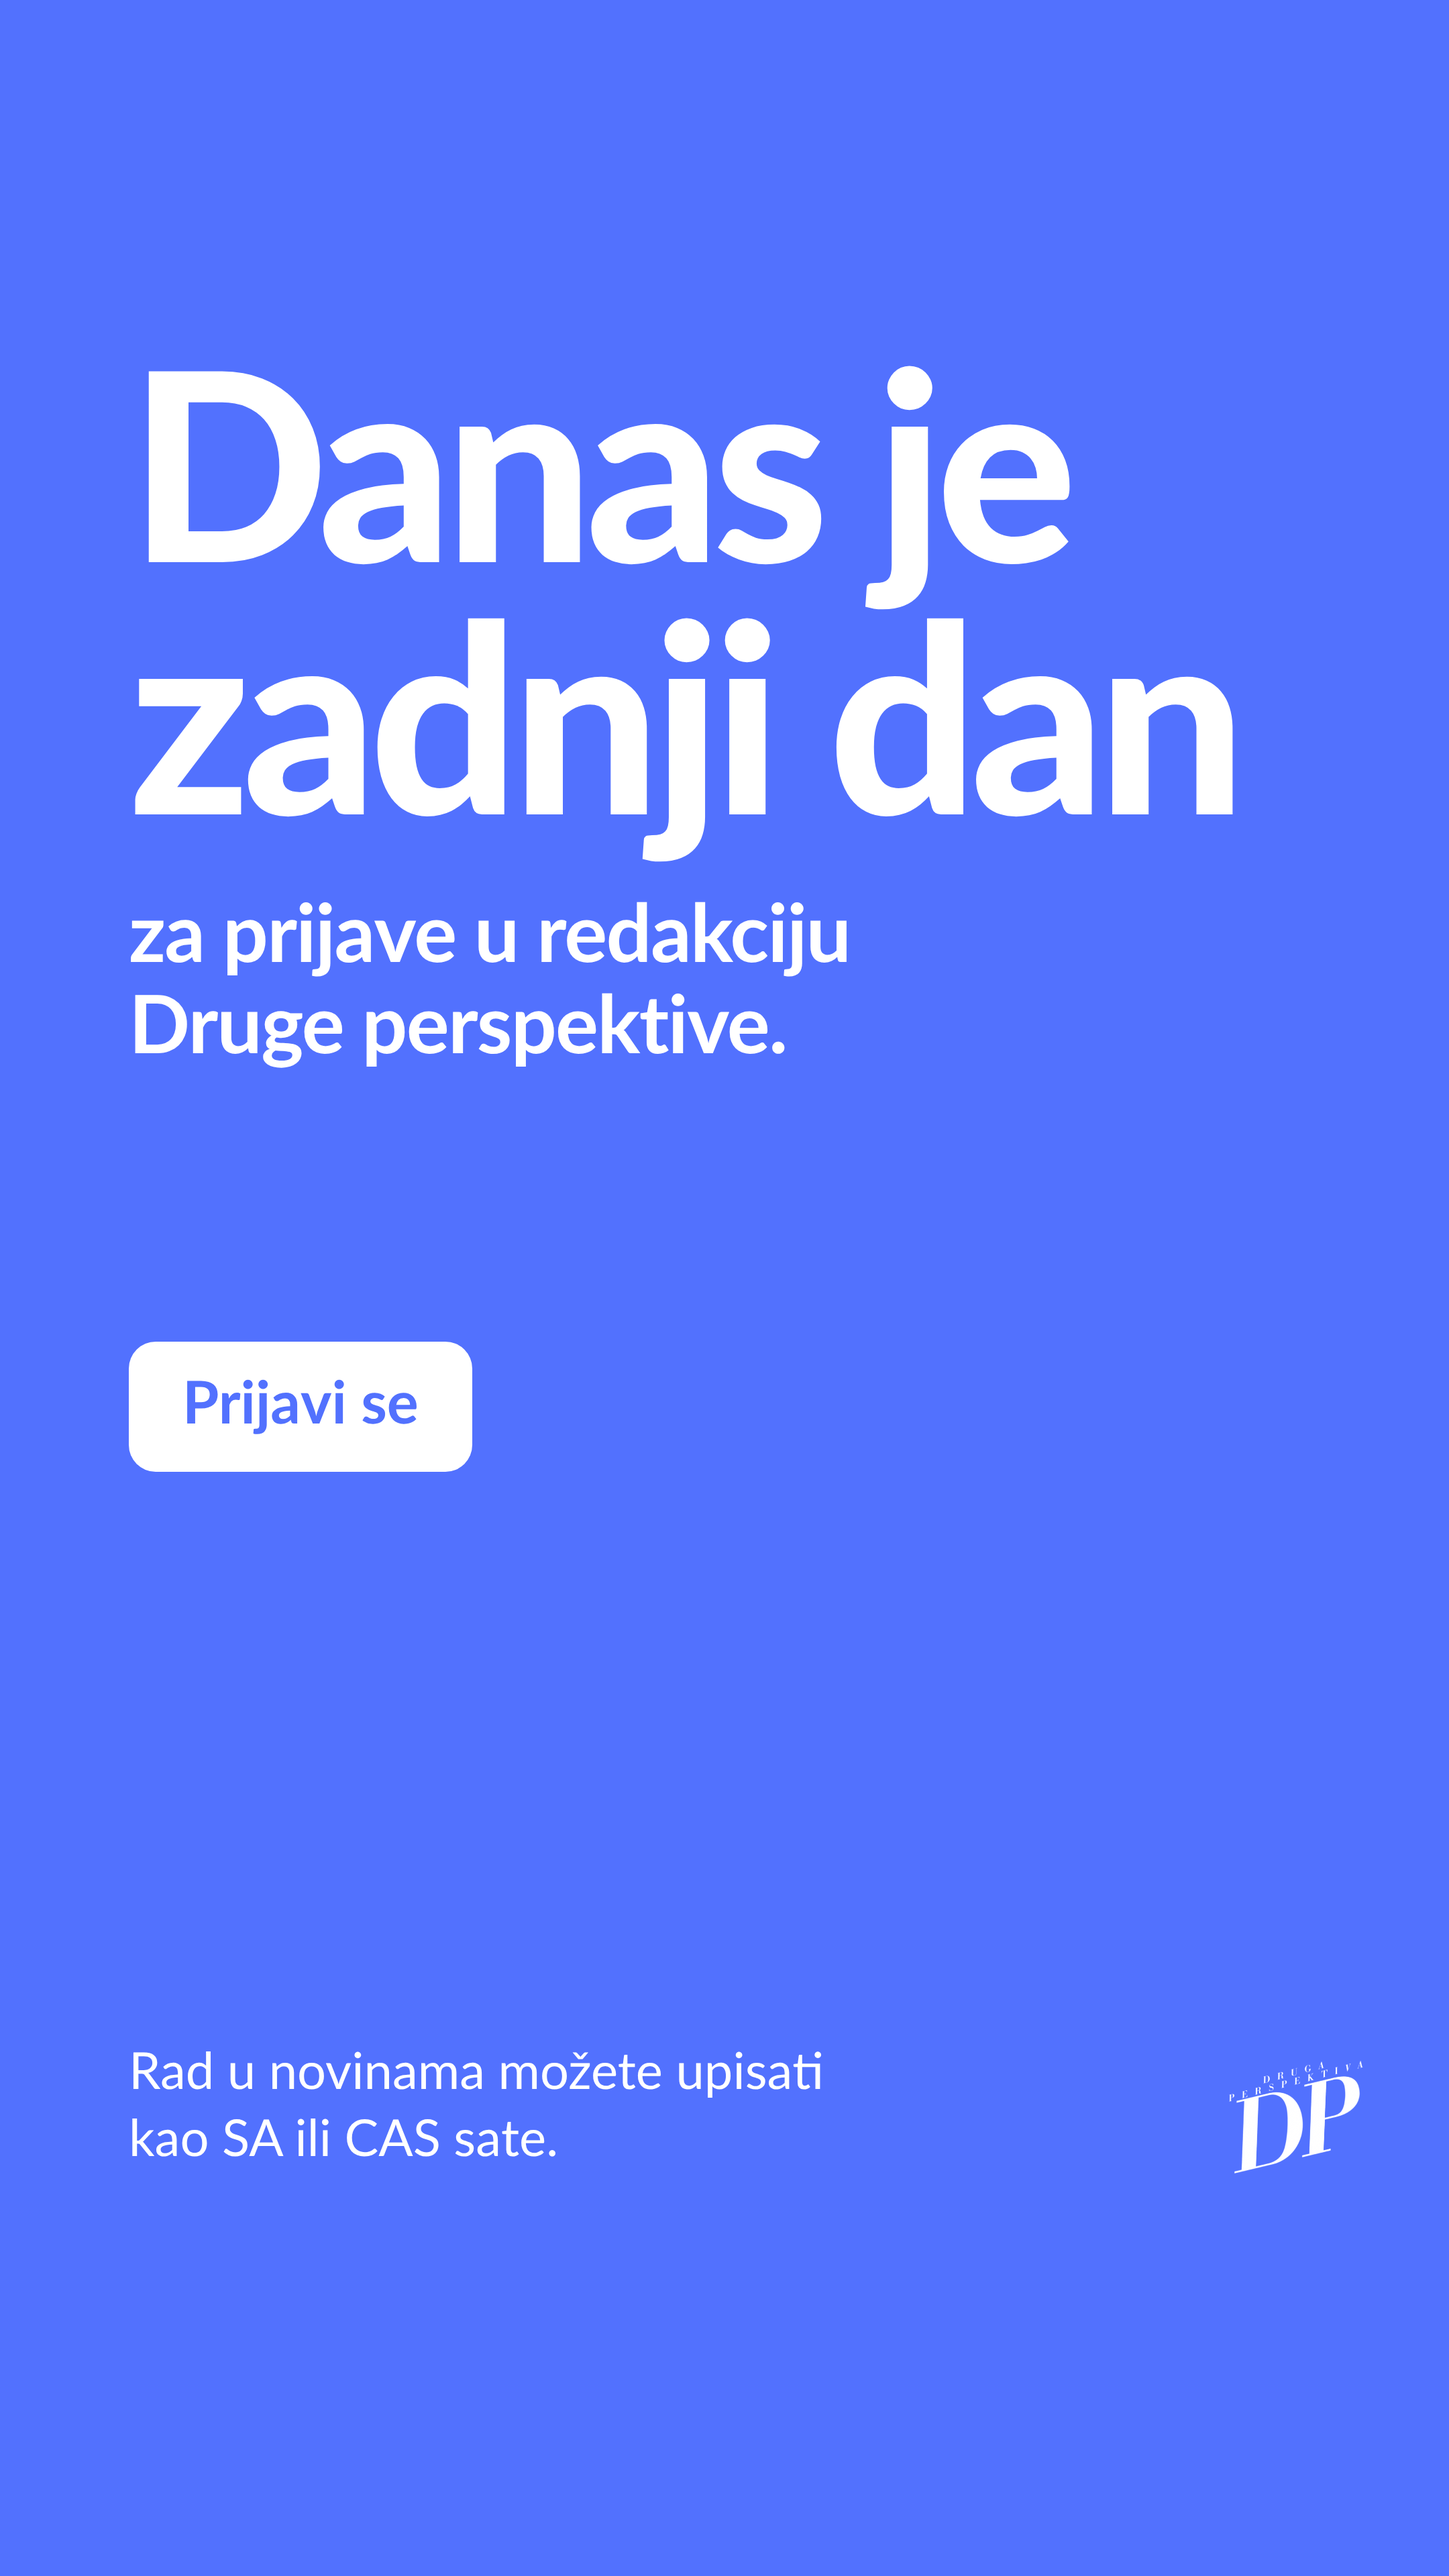
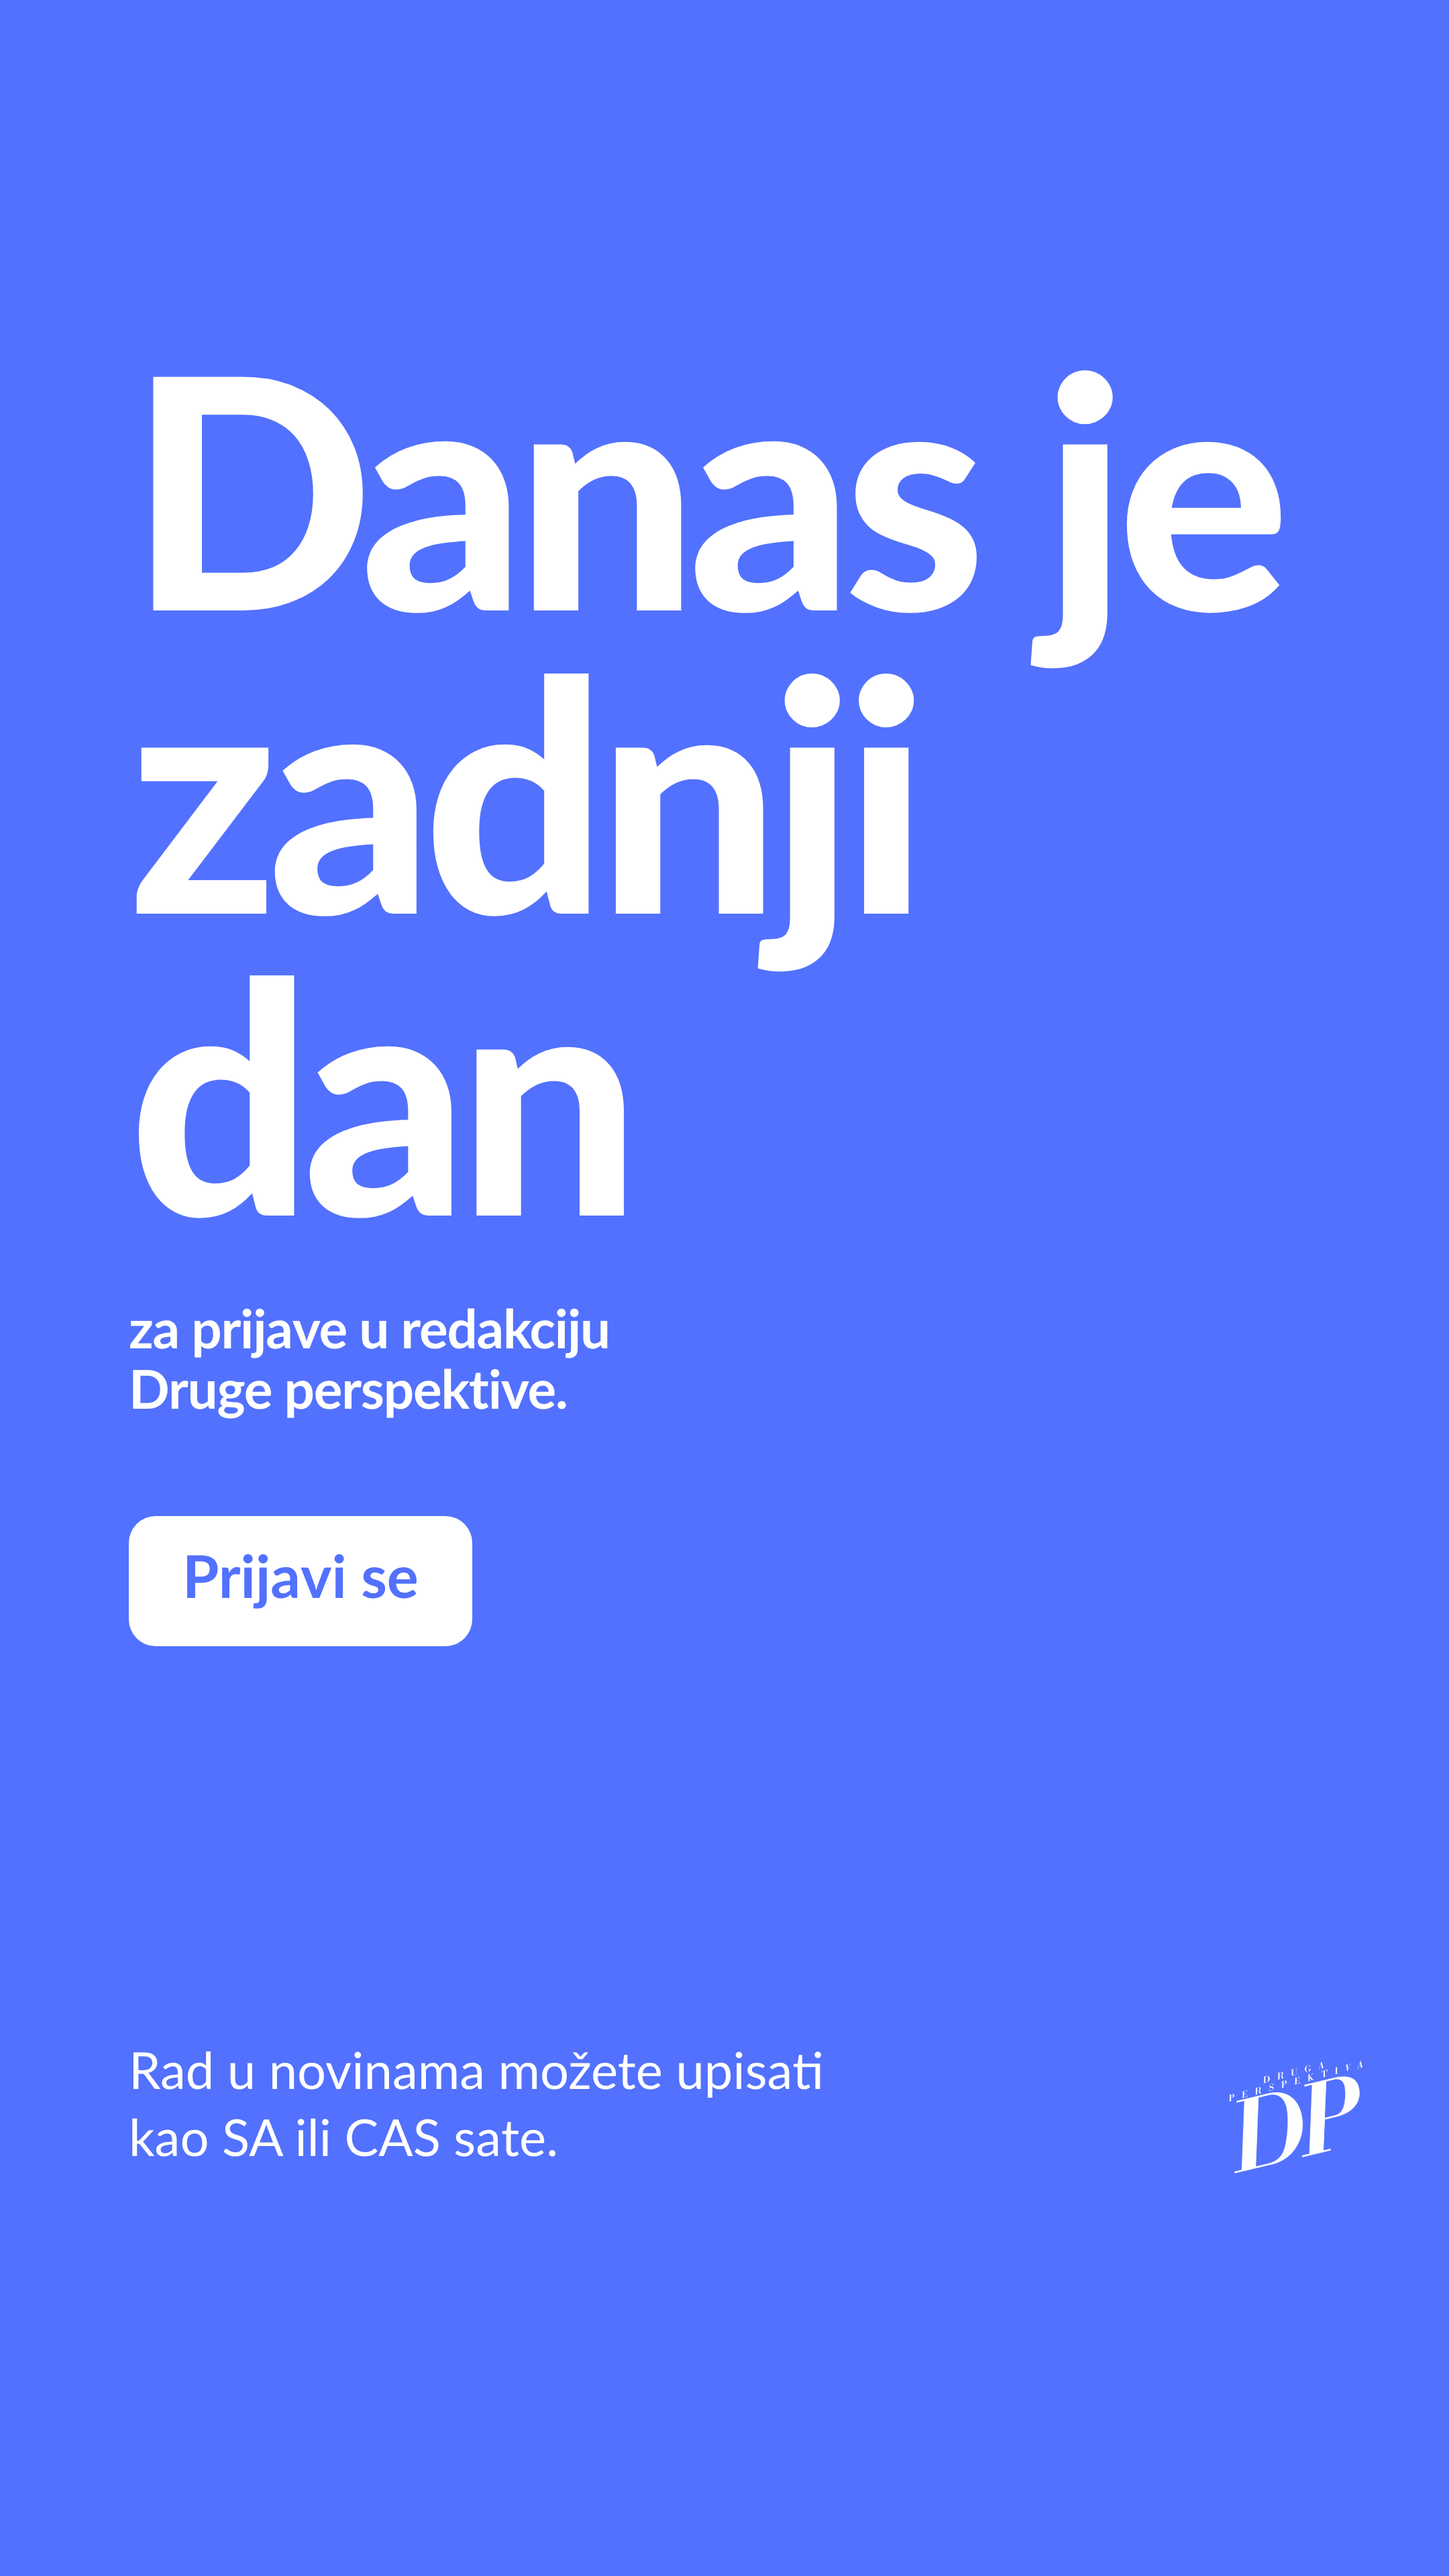
Prijave: veći naslov, manji nastavak
Claude-Session: https://claude.ai/code/session_01LzMpRsfrg5uNj5HJ7UXVFE

Changed region(s): [[0.062, 0.125, 0.8995, 0.6562]]

diff --git a/promo/prijave-redakcija/dizajn.html b/promo/prijave-redakcija/dizajn.html
@@ -76,19 +76,19 @@ body { background: #777; font-family: "Lato", sans-serif; color: #fff; padding: 
 
 .prijave { --m: 96px; background: var(--plava); }
 .prijave .vrh { position: absolute; left: var(--m); right: 64px; top: 250px; }
-.prijave .izjava { font-size: 196px; line-height: .96; letter-spacing: -0.03em; }
-.prijave .nastavak { margin-top: 40px; font-size: 60px; font-weight: 700; line-height: 1.12; letter-spacing: -0.015em; }
+.prijave .izjava { font-size: 240px; line-height: .94; letter-spacing: -0.03em; }
+.prijave .nastavak { margin-top: 44px; font-size: 40px; font-weight: 700; line-height: 1.12; letter-spacing: -0.015em; }
 .prijave .dno { position: absolute; left: var(--m); right: 200px; bottom: 300px; }
 .prijave .napomena { font-size: 38px; line-height: 1.3; color: #fff; }
 /* Samo za pregled: gdje ide Instagram stiker s linkom. */
-.stiker { position: absolute; left: var(--m); top: 1000px; background: #fff; color: var(--plava); font-weight: 700; font-size: 44px; padding: 22px 40px; border-radius: 20px; }
+.stiker { position: absolute; left: var(--m); top: 1130px; background: #fff; color: var(--plava); font-weight: 700; font-size: 44px; padding: 22px 40px; border-radius: 20px; }
 </style>
 </head>
 <body>
 
 <section class="slide story prijave">
 	<div class="vrh">
-		<h1 class="izjava">Danas je<br>zadnji dan</h1>
+		<h1 class="izjava">Danas je<br>zadnji<br>dan</h1>
 		<p class="nastavak">za prijave u redakciju<br>Druge perspektive.</p>
 	</div>
 	<div class="dno">
@@ -99,7 +99,7 @@ body { background: #777; font-family: "Lato", sans-serif; color: #fff; padding: 
 
 <section class="slide story prijave">
 	<div class="vrh">
-		<h1 class="izjava">Danas je<br>zadnji dan</h1>
+		<h1 class="izjava">Danas je<br>zadnji<br>dan</h1>
 		<p class="nastavak">za prijave u redakciju<br>Druge perspektive.</p>
 	</div>
 	<div class="stiker">Prijavi se</div>
